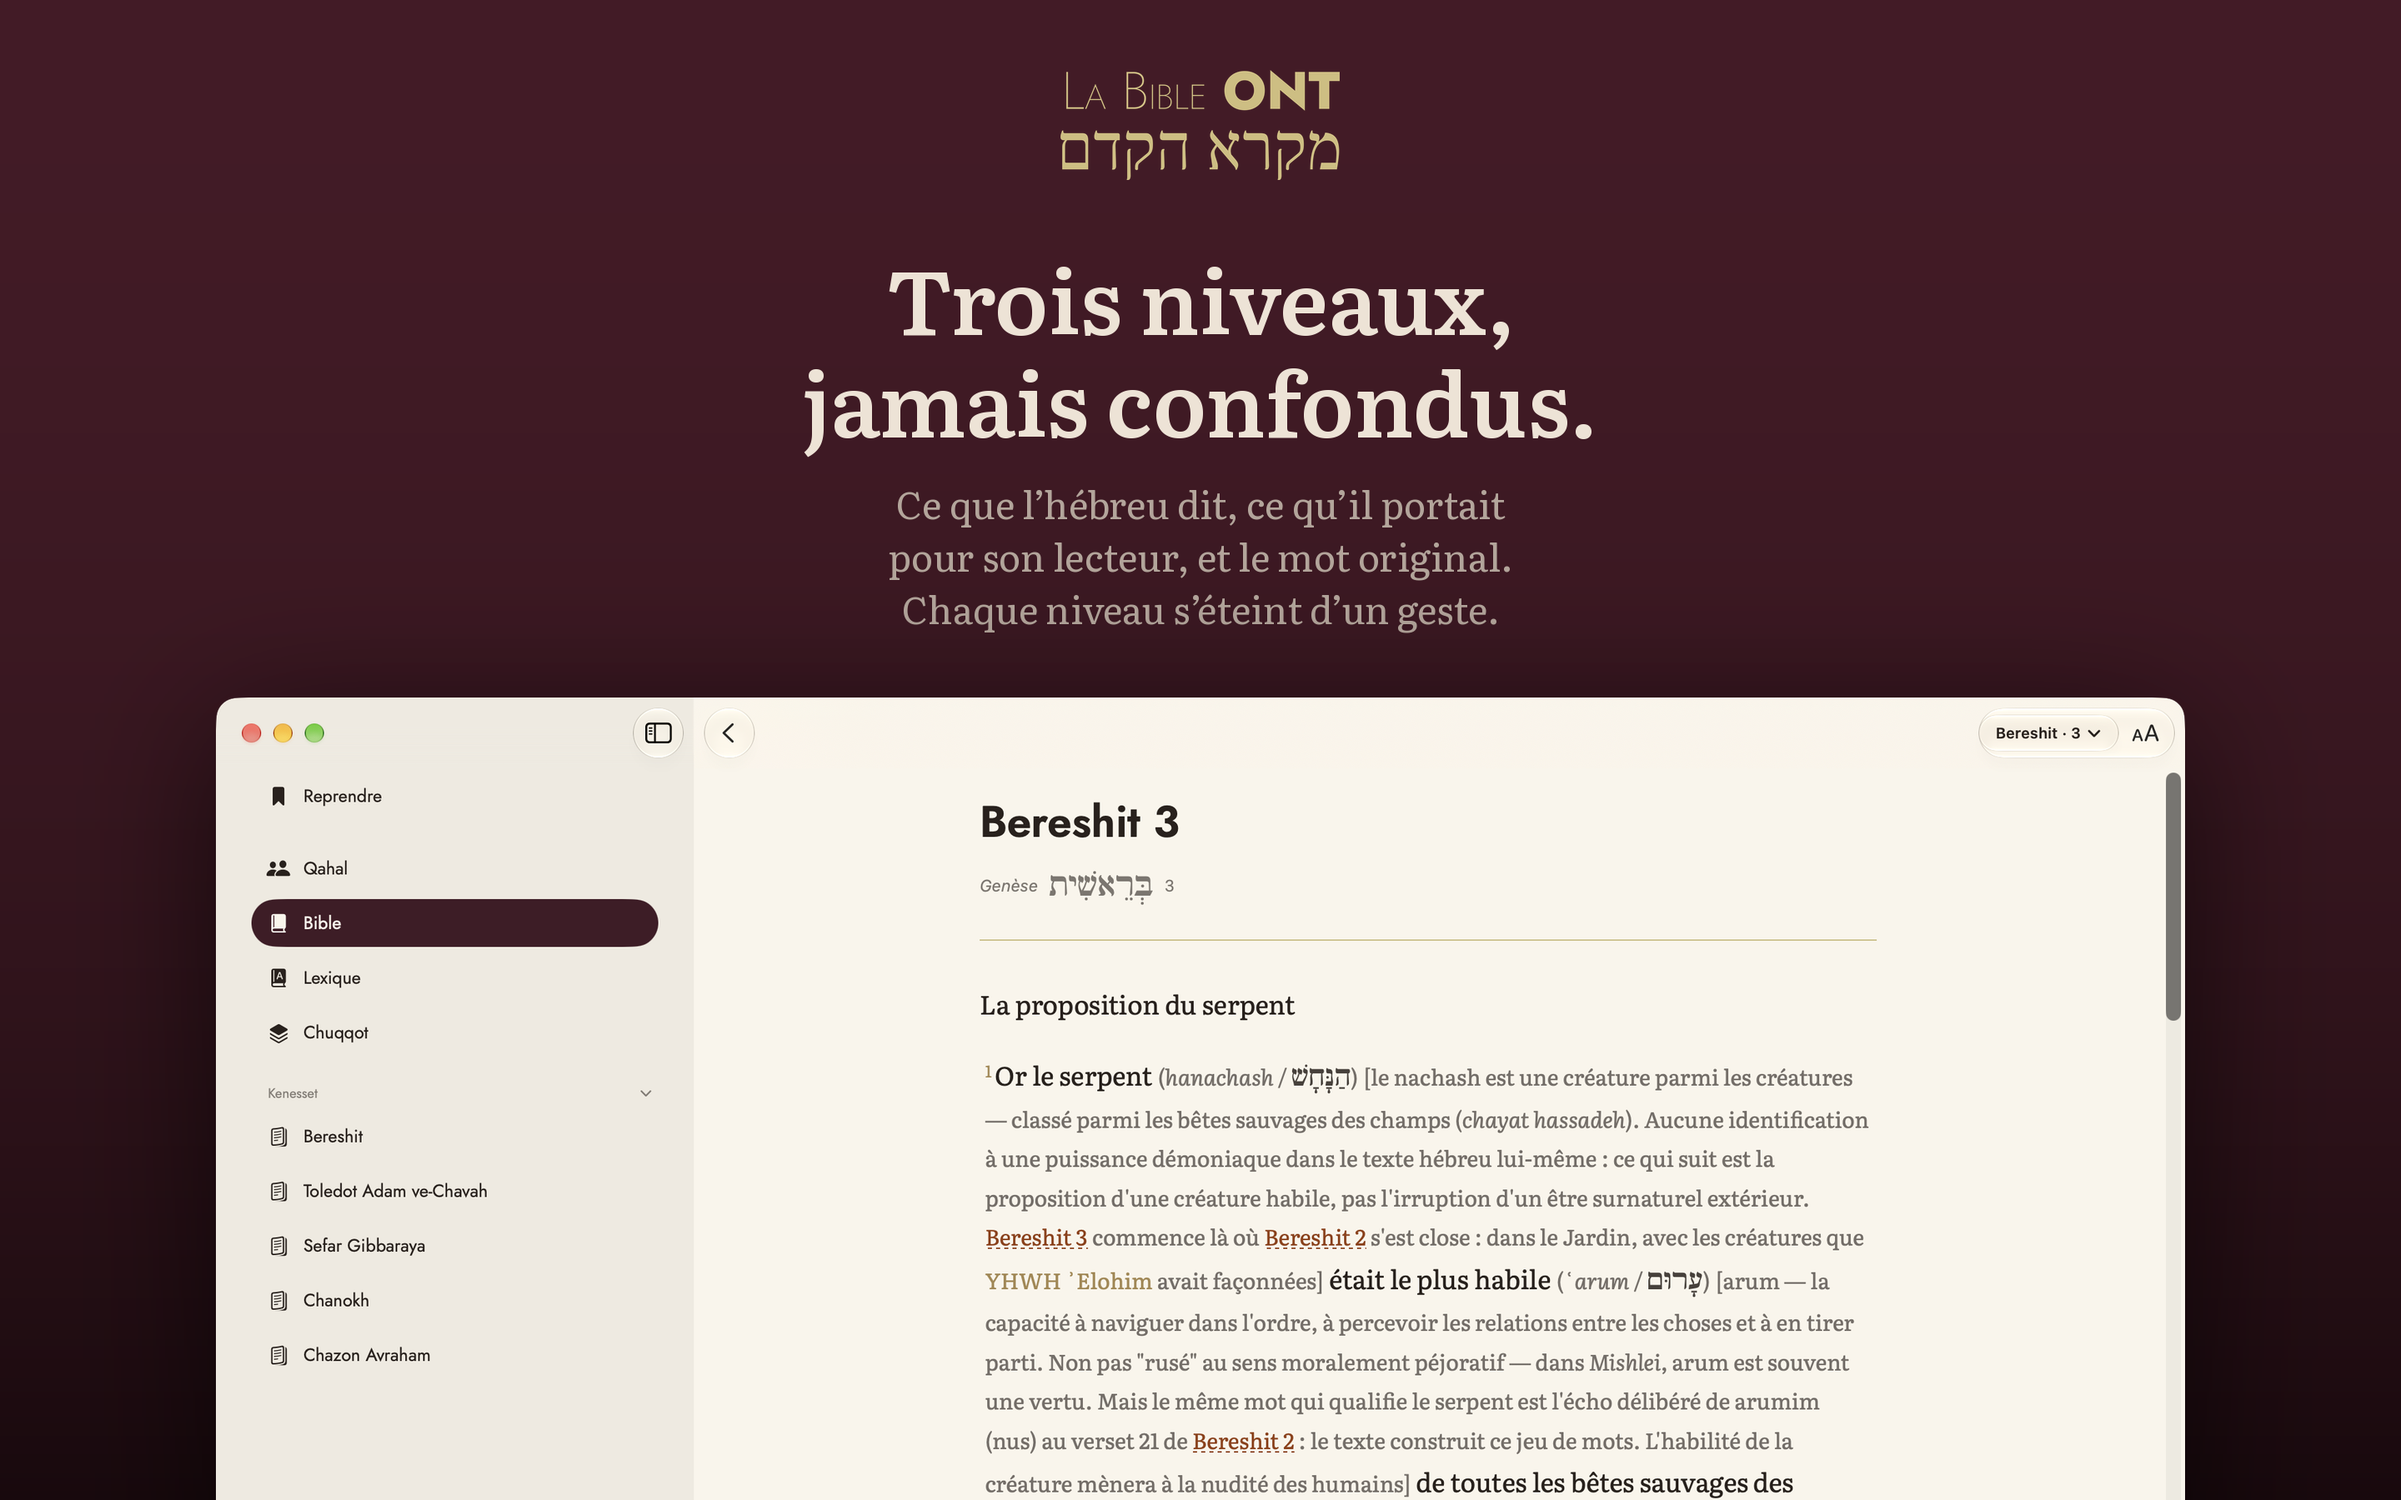
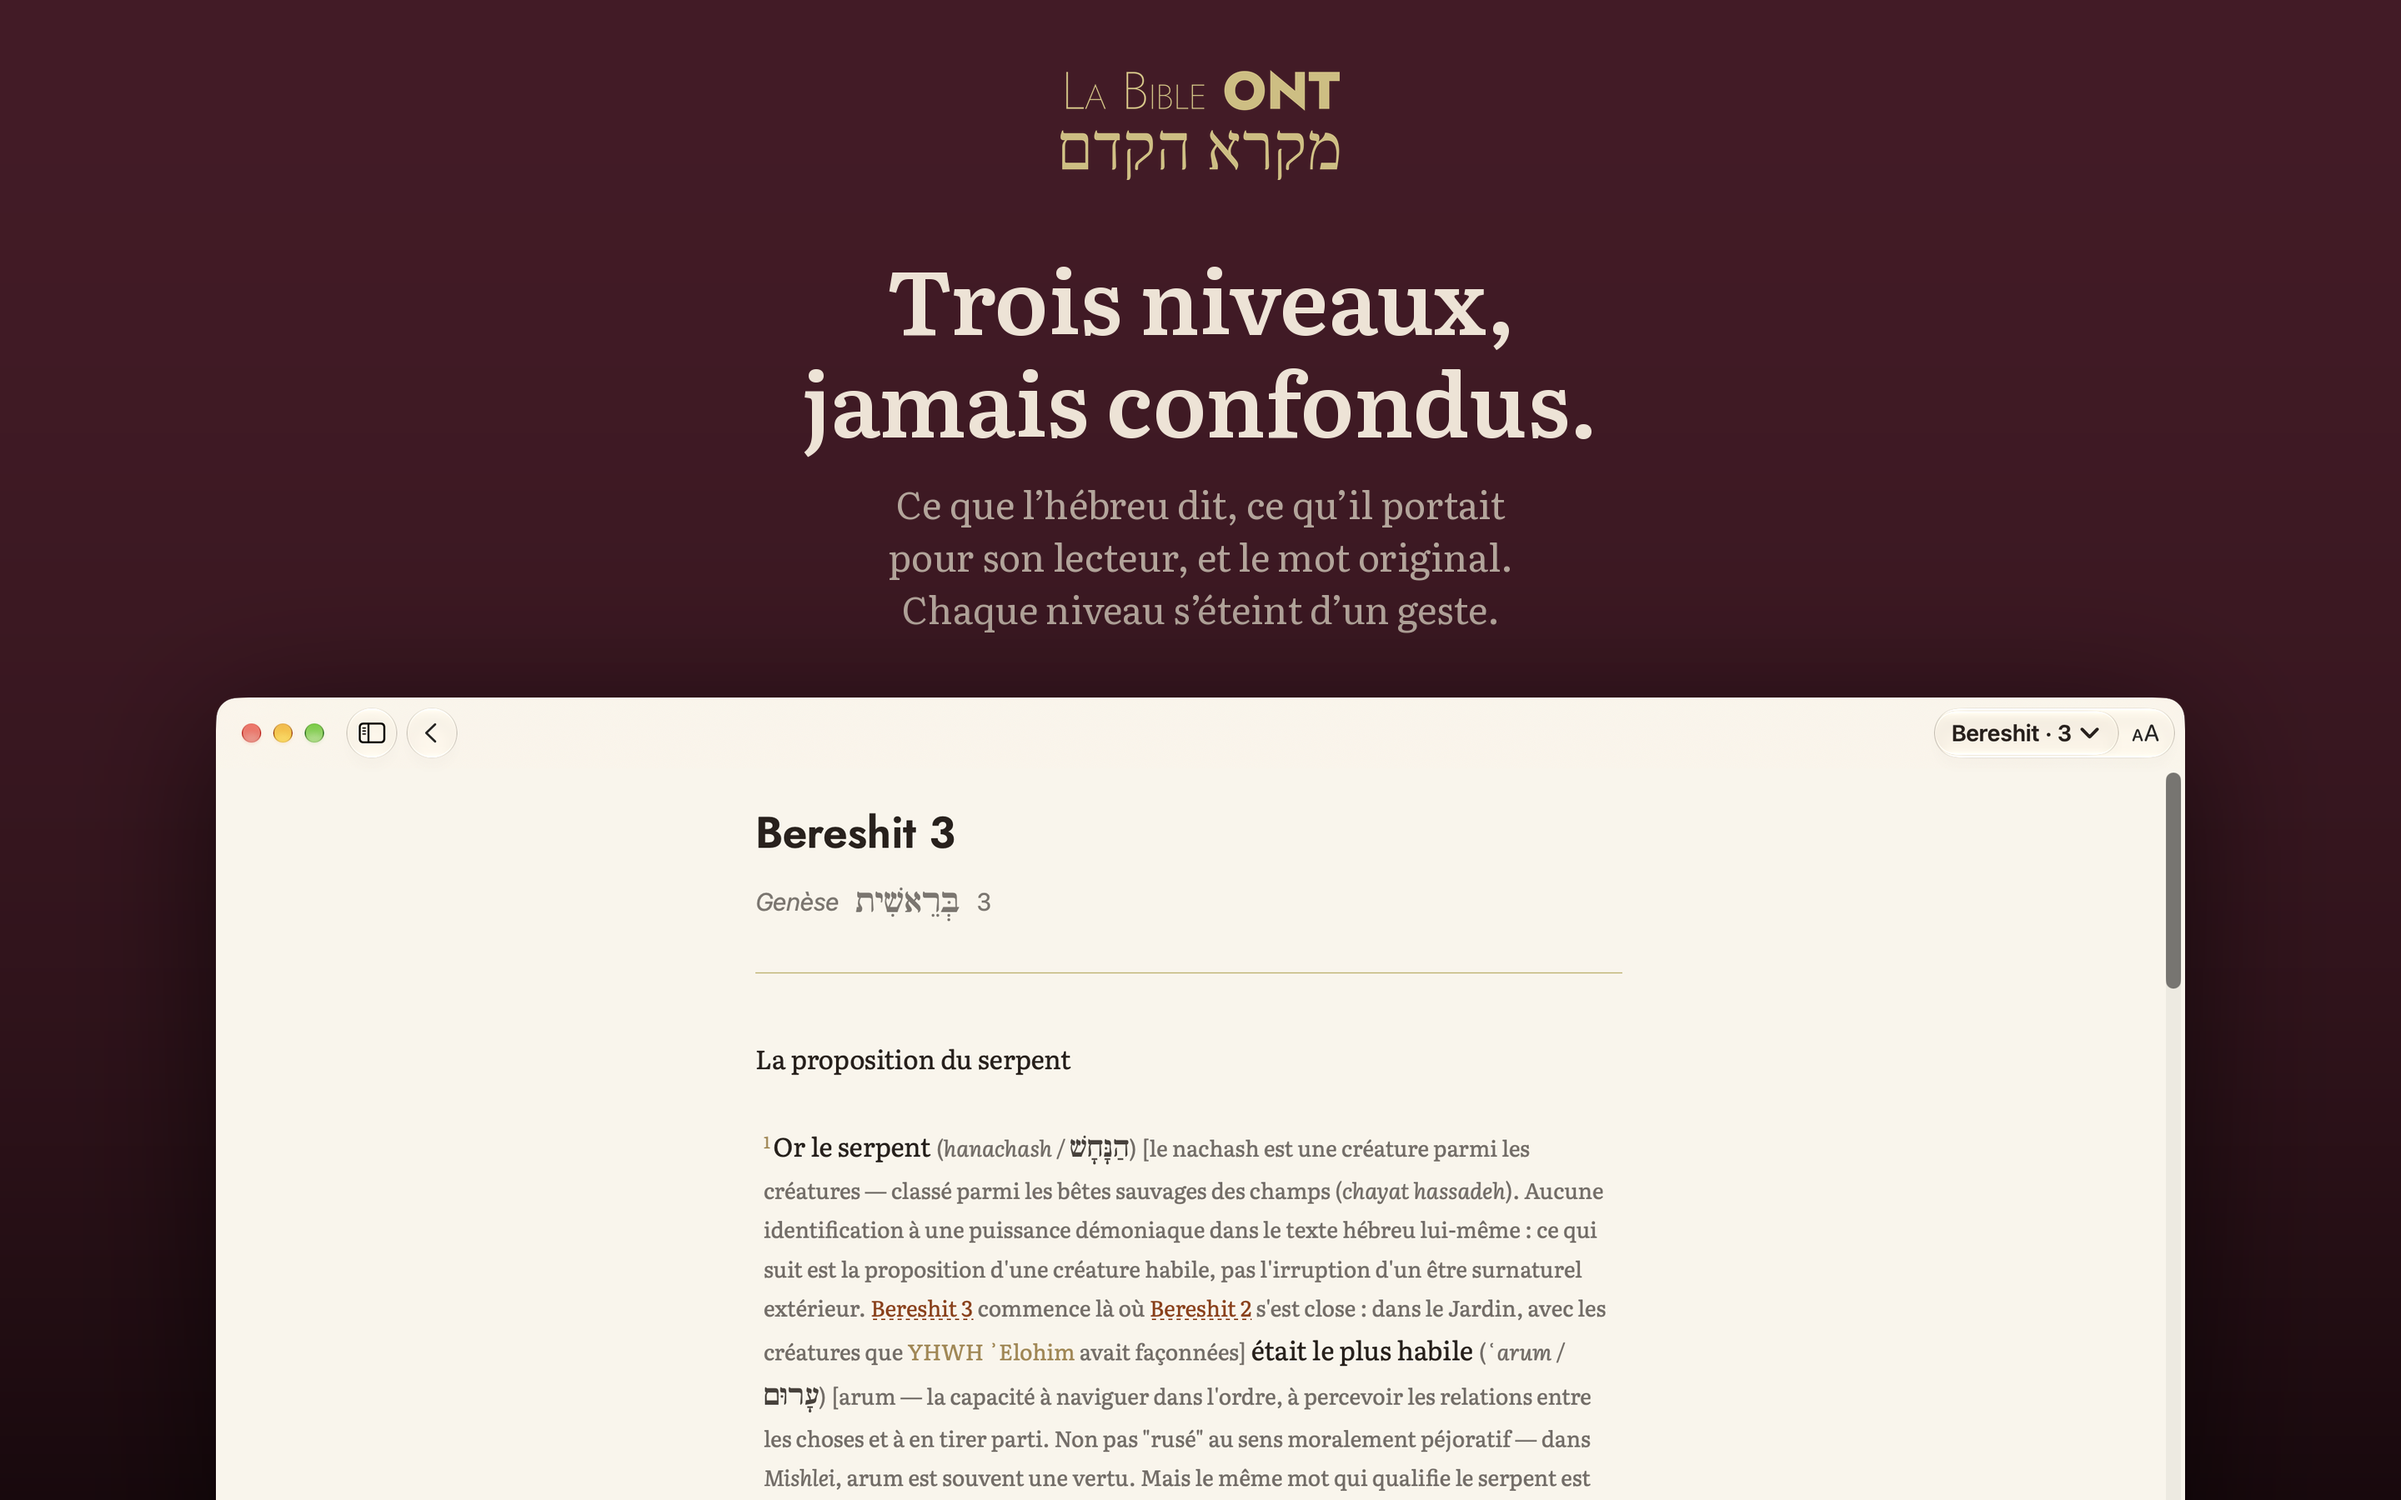
# Poser la vitrine sur un lecteur neuf, sans toucher à celui de l'auteur
Les captures du Mac portaient l'état de la machine. -tab bible avait
fermé l'onglet restauré, la barre imposée ouverte avait fermé le pli —
mais le thème, la position et le réglage du français reçu viennent de
lecteur.json, qu'aucun argument de lancement n'atteint : ils vivent
dans un JSON, pas dans UserDefaults.

Le remède du simulateur ne traverse pas. iOS désinstalle avant
d'installer et le conteneur repart vide ; ici le conteneur est le vrai
lecteur de l'auteur — ses surlignages, ses notes, sa position. L'effacer
pour une campagne de captures détruirait son travail.

D'où l'autre moitié du même énoncé : pointer ailleurs plutôt
qu'effacer. -lecteurJetable envoie le store dans un dossier temporaire,
l'auteur garde tout, et la vitrine montre ce qu'un lecteur neuf voit.

Le défaut que ça ferme, mesuré le 19 : mes affiches disaient
« Parashiot » quand celles de l'iPhone disaient « Chapitres ». Ni l'une
ni l'autre n'était fausse — la mienne portait un réglage de la machine,
l'autre le défaut d'un conteneur neuf. La fiche montrait l'app dans deux
langues, et aucun contrôle ne pouvait le dire.

Les quatre affiches sont refaites du même coup : le contrôle de
fraîcheur rougissait depuis le 22, l'interface ayant bougé dans
BibleTab et LexiconTab — c'est-à-dire dans deux des scènes.

diff --git a/app/Sources/App/Composition.swift b/app/Sources/App/Composition.swift
@@ -153,7 +153,40 @@ final class Composition {
         // qu'on éprouve précisément sans corpus.
         let sources = DiskSourcesRepository(socle: BundleSourcesRepository(bundle: source))
         self.sourcesSurDisque = sources
-        let store = FileReaderStore()
+        // **En mode capture, le lecteur est neuf — et c'est le seul moyen.**
+        //
+        // Une vitrine ne doit dépendre d'aucun état de la machine : ni de
+        // l'onglet quitté, ni de la barre repliée, ni du thème de la dernière
+        // séance. Sur simulateur, la session iOS ferme la famille entière d'un
+        // geste — elle désinstalle avant d'installer, et le conteneur repart
+        // vide.
+        //
+        // **Ce remède ne traverse pas.** Le conteneur du Mac est le *vrai*
+        // lecteur de l'auteur : `lecteur.json` y tient ses surlignages, ses
+        // notes, sa position et ses réglages. L'effacer pour une campagne de
+        // captures détruirait son travail. Et le domaine des arguments de
+        // lancement — qui porte déjà `-tailleDeCapture` et `-tab` — ne
+        // l'atteint pas : ces réglages-ci viennent d'un JSON, pas de
+        // `UserDefaults`.
+        //
+        // D'où ce geste, qui est l'autre moitié du même énoncé : **pointer
+        // ailleurs plutôt qu'effacer.** Le store part dans un dossier jetable,
+        // l'auteur garde tout, et la vitrine montre ce qu'un lecteur neuf voit
+        // — c'est-à-dire les valeurs par défaut, qui sont la seule référence
+        // qu'une vitrine puisse avoir.
+        //
+        // Le défaut que ça ferme, mesuré le 19 septembre : mes affiches
+        // disaient « Parashiot » quand celles de l'iPhone disaient
+        // « Chapitres ». Ni l'une ni l'autre n'était fausse — la mienne portait
+        // le réglage « français reçu » de la machine de l'auteur, l'autre le
+        // défaut d'un conteneur neuf. La fiche montrait donc l'app dans deux
+        // langues, et aucun contrôle ne pouvait le dire.
+        let store: FileReaderStore =
+            if let jetable = UserDefaults.standard.string(forKey: "lecteurJetable") {
+                FileReaderStore(directory: URL(fileURLWithPath: jetable))
+            } else {
+                FileReaderStore()
+            }
         // Un fichier à part : le profil se supprime avec le compte, les
         // réglages de lecture survivent à une déconnexion.
         let profils = FileProfilStore()
